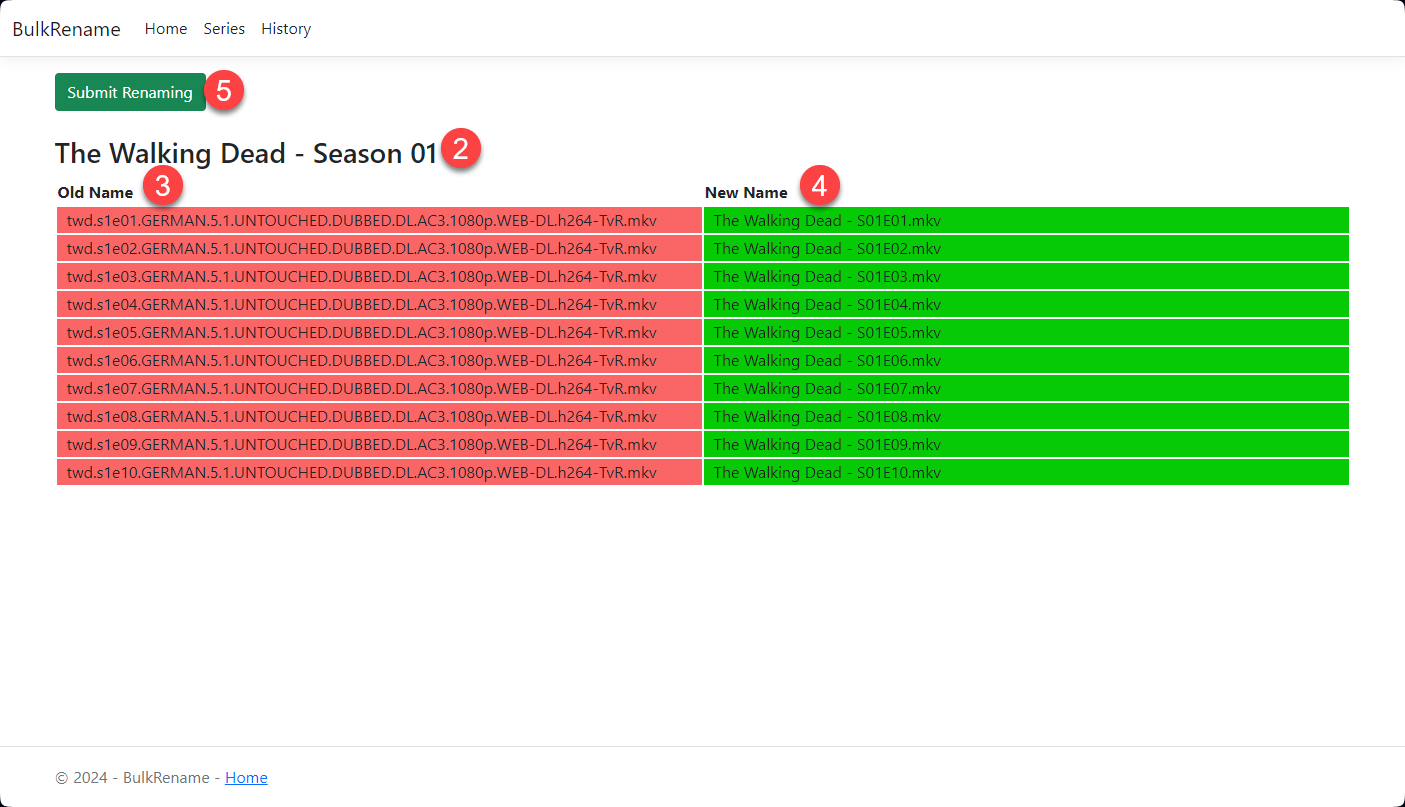
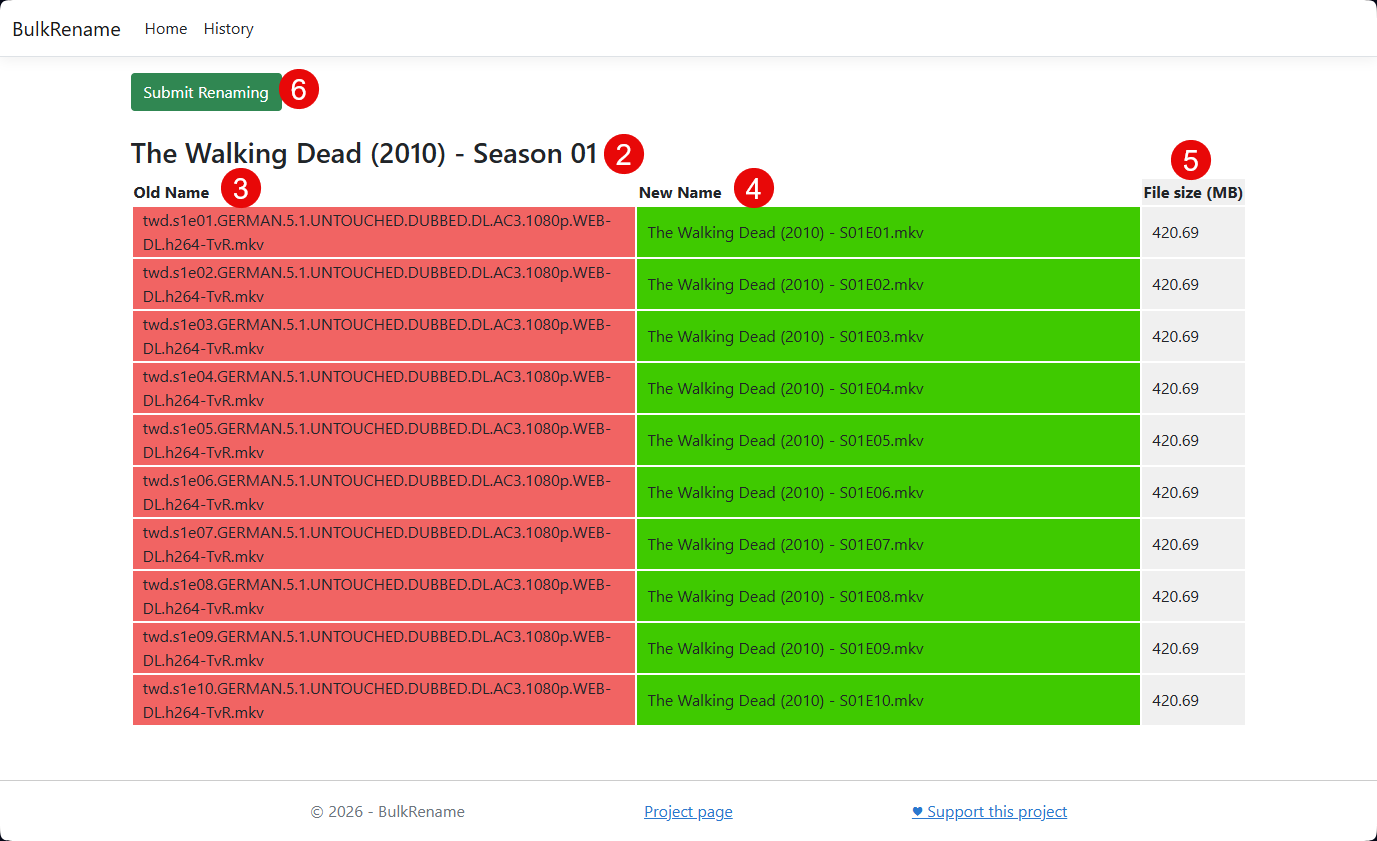
Update documentation

diff --git a/README.md b/README.md
@@ -143,7 +143,7 @@ For the application to recognize the files and rename them correctly, a folder s
 ```
 /Downloads
   /Files
-    /The Walking Dead
+    /The Walking Dead (2010)
       /Season 01
         twd.s1e01.GERMAN.5.1.UNTOUCHED.DUBBED.DL.AC3.1080p.WEB-DL.h264-TvR.mkv
         twd.s1e02.GERMAN.5.1.UNTOUCHED.DUBBED.DL.AC3.1080p.WEB-DL.h264-TvR.mkv
@@ -161,17 +161,17 @@ This is the home page with the **Preview Renaming of TV-Shows (1)** button in th
 ![Home](./.github/01-Home.png)
 
 ## Series overview
-On the preview page, the entries are grouped by **Series - Season (2)**, and the **original name (3)** and the **new name after renaming (4)** are displayed. If the new file names are correct, the renaming can be performed with **Submit Renaming (5)**.
+On the preview page, the entries are grouped by **Series (year) - Season (2)**, the **original name (3)**, the **new name after renaming (4)**, and the **file size (5)** are displayed. If the new file names are correct, the renaming can be performed with **Submit Renaming (6)**.
 
 ![Series overview](./.github/02-Series-overview.png)
 
 ## Renamed series overview
-If the renaming was successful, this is displayed on the page with the message **Successfully renamed files (6)**. Here the renames are also grouped by **series - season (7)**.
+If the renaming was successful, this is displayed on the page with the message **Successfully renamed files (7)**. Here the renames are also grouped by **Series (year) - Season (8)**.
 
 ![Renamed series overview](./.github/03-Renamed-series-overview.png)
 
 ## History
-Call up the history page by pressing **History (8)**. The first time, the page will be empty, but if you press **Load History (9)**, your entire renaming history will be loaded, grouped by **series - season - date and time of renaming (10)**. Once loaded, the history is retained until you restart the application or reload it by pressing the button again.
+Call up the history page by pressing **History (9)**. The first time, the page will be empty, but if you press **Load History (10)**, your entire renaming history will be loaded, grouped by **Series (year) - Season XX - date and time of renaming (11)**. Once loaded, the history is retained until you restart the application or reload it by pressing the button again.
 
 ![History](./.github/04-History.png)
 
